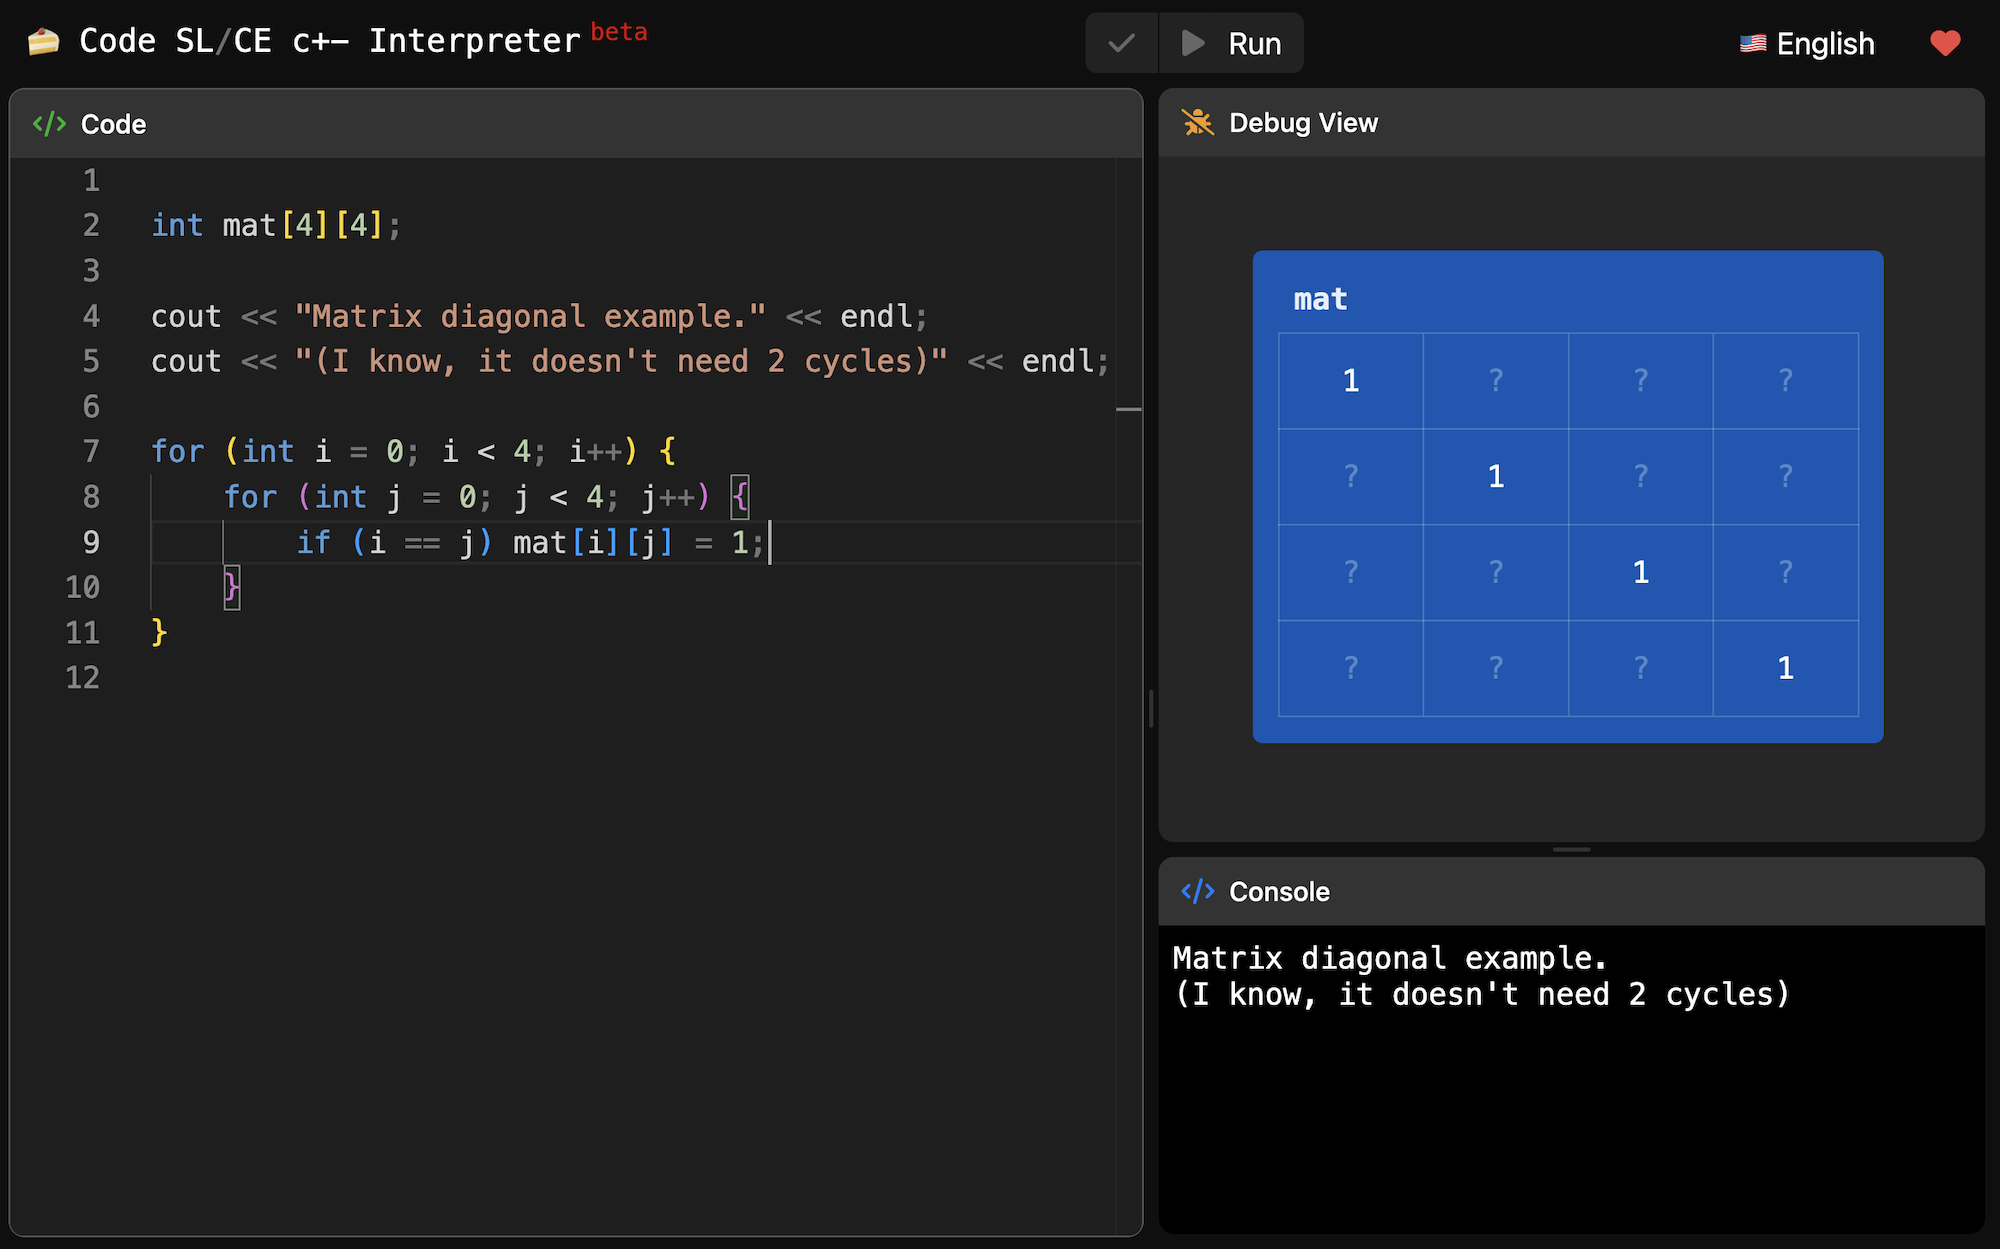
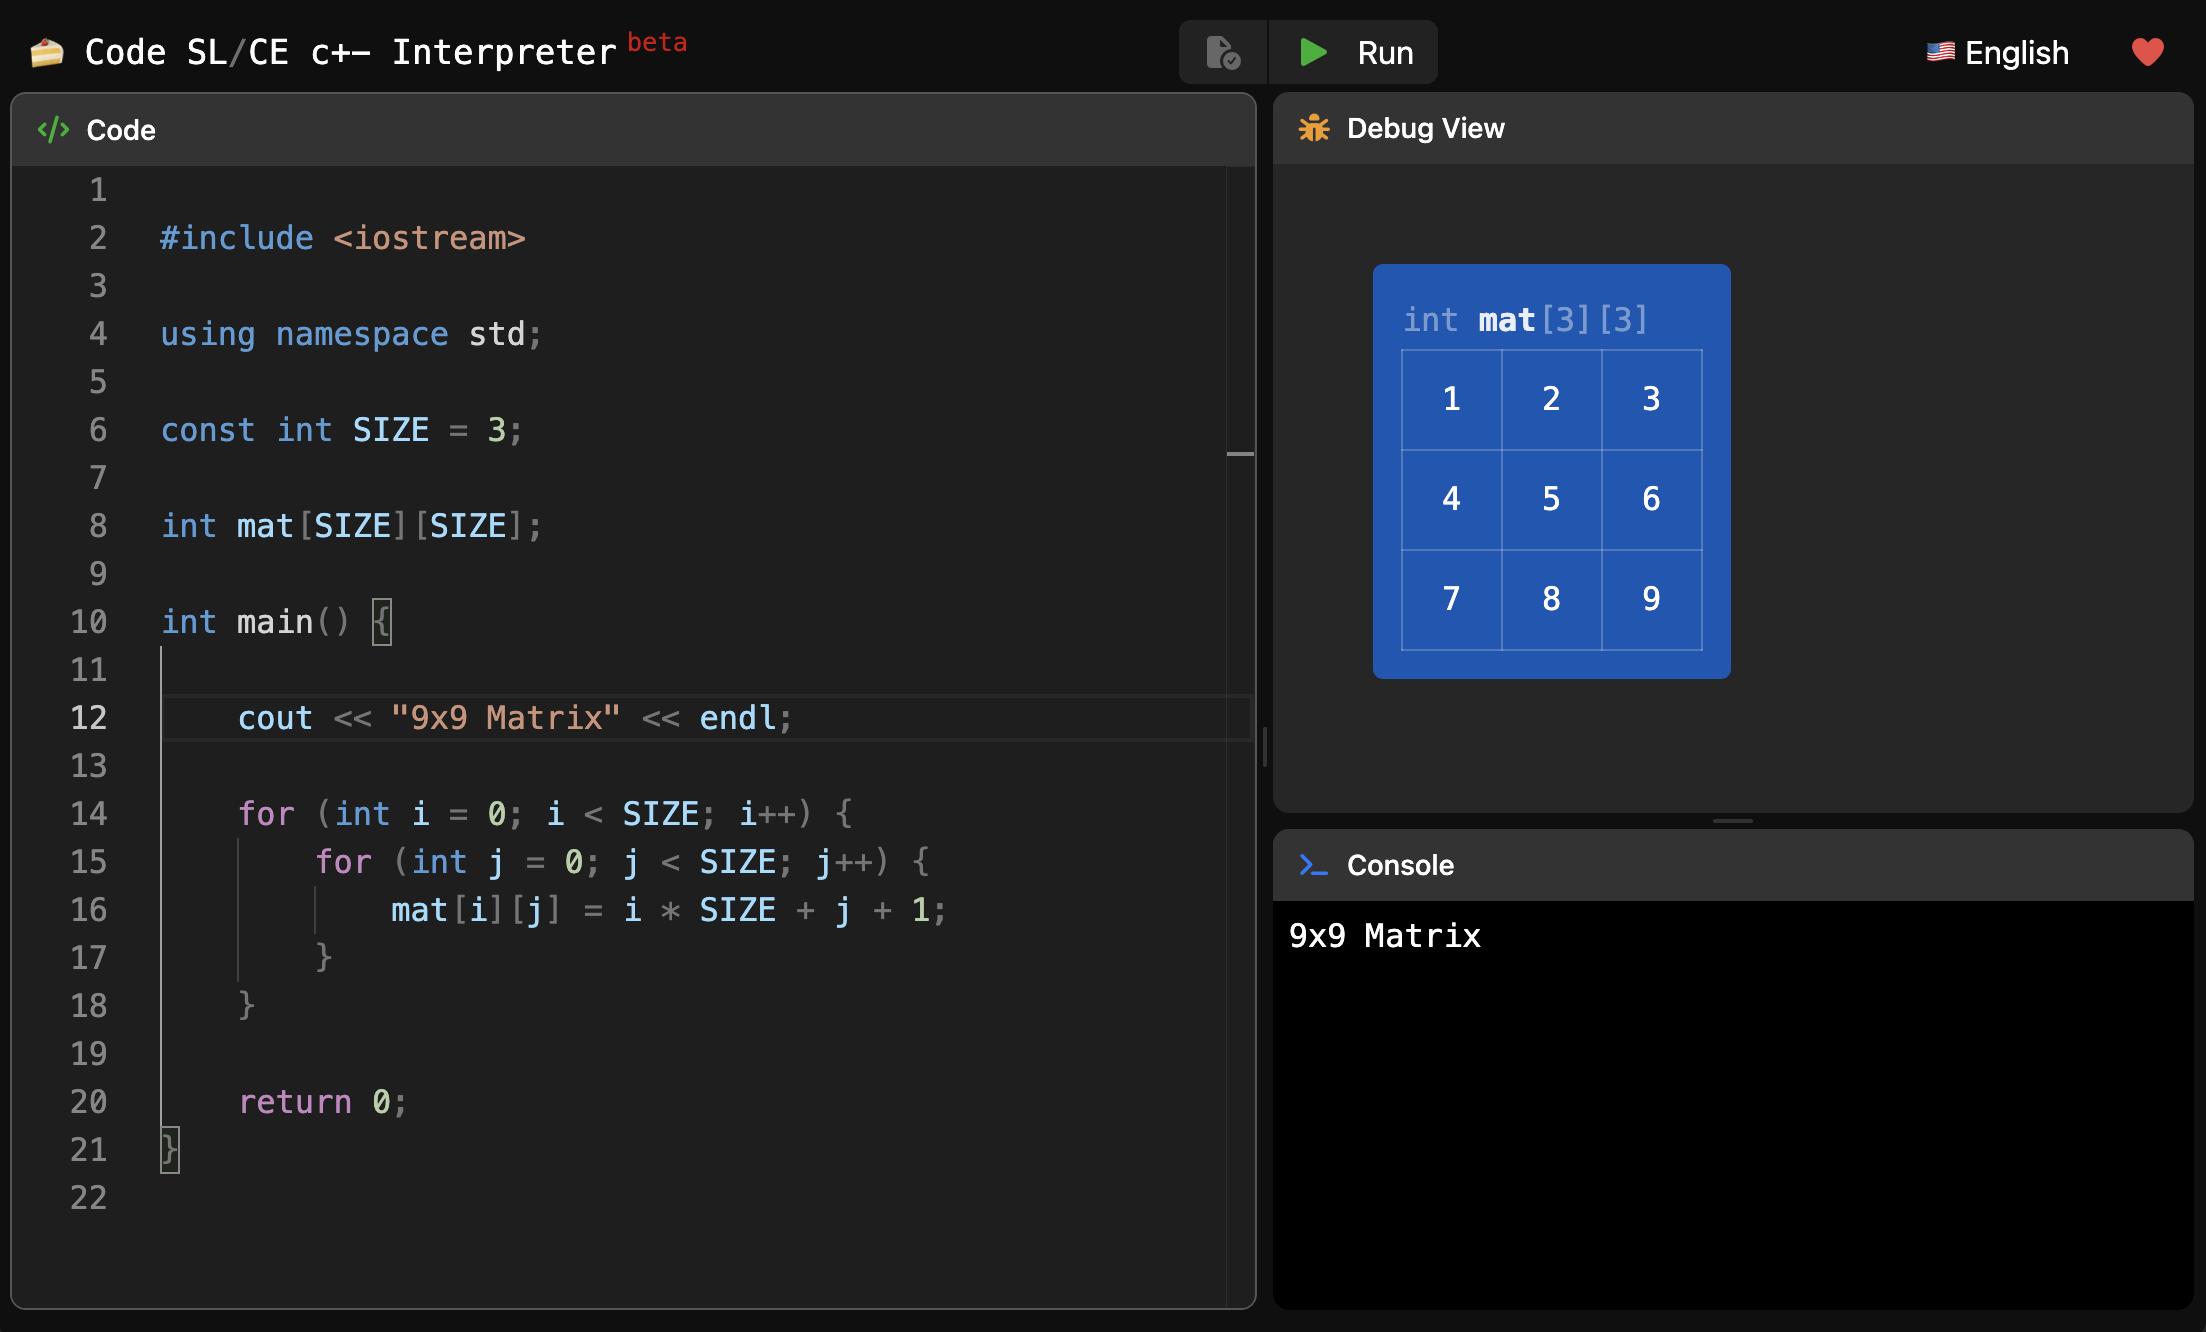
string and char fixes

diff --git a/js/parser.js b/js/parser.js
@@ -4,9 +4,10 @@ const letter = c =>(c >= 'a' && c <= 'z') ||
 	(c >= 'A' && c <= 'Z') || c === '_';
 const alpha = c => digit(c) || letter(c);
 
+// maps the character AFTER the backslash to the character it stands for
 const escapedChars = {
-	'\\\\': "\\", '\\\'': '\'', '\\"': '"',
-	'\\n': "\n", '\\t': "\t", '\\r': "\r", '\\0': "\0"
+	'\\': "\\", '\'': "'", '"': '"',
+	'n': "\n", 't': "\t", 'r': "\r", '0': "\0"
 };
 
 const types = [ "int", "float", "char", "string", "bool" ];
@@ -54,10 +55,10 @@ class Parser {
 
 	// ==== Lexer ==============================================================
 
-	// FIX: comments
 	#lex() {
 		const code = this.code;
-		let tokens = [], grouped = []; let i = 0, t = "", position = 0;
+		let tokens = [], grouped = []; 
+		let i = 0, t = "", position = 0;
 		while (i < code.length) {
 			switch (code[i]) {
 				case ' ': case '\t': case '\n': break;
@@ -88,36 +89,57 @@ class Parser {
 					if (!headers.includes(m[1])) throw new CodeError(Language.main.errors.UHD, [ position, i ], [ m[1] ]);
 					tokens.push({ lexeme: code.substring(position, i), type: "include", header: m[1], position });
 				} break;
-				case '"':
-					position = i; i++; t = '"';
-					while (i < code.length && code[i] !== '"' && code[i] !== '\n')
-						t += code[i++];
-					if (code[i] == '\n') throw new CodeError(Language.main.errors.MTC, [ position, i ], '"');
-					tokens.push({ lexeme: t + '"', type: "string", position });
-				break;
-				case '\'':
-					position = i; i++; t = "";
-					while (i < code.length && code[i] !== '\'' && code[i] !== '\n')
-						t += code[i++];
-					if (code[i] === '\n') throw new CodeError(Language.main.errors.MTC, [ position, i ], "'");
-					if (t.length !== 1) {
-						if (t.includes('\\')) {
-							const c = t.substring(1, t.length - 1);
-							if (!(c in escapedChars)) throw new CodeError(Language.main.errors.UES, [ position, i ]);
-							else tokens.push({ lexeme: `'${escapedChars[c]}'`, type: "char", position });
-						} else throw new CodeError(Language.main.errors.ICL, [ position, i ]);
-					} else tokens.push({ lexeme: `'${t}'`, type: "char", position });
-				break;
+				case '"': {
+					position = i;
+					i++;
+					t = ""; // decoded content
+					while (i < code.length && code[i] !== '"' && code[i] !== '\n') {
+						if (code[i] === '\\') {
+							const c = code[i + 1];
+							if (c === undefined || c === '\n') break; // unterminated
+							if (!Object.hasOwn(escapedChars, c))
+								throw new CodeError(Language.main.errors.UES, [ i, i + 2 ]);
+							t += escapedChars[c];
+							i += 2;
+						} else t += code[i++];
+					}
+					if (code[i] !== '"') throw new CodeError(Language.main.errors.MTC, [ position, i ], '"');
+					// i stays on the closing quote; the loop's final i++ moves past it
+					// lexeme stays the raw source text (positions/lengths), value is the decoded string
+					tokens.push({ lexeme: code.substring(position, i + 1), value: t, type: "string", position });
+				} break;
+				case '\'': {
+					position = i;
+					i++;
+					t = ""; // decoded content
+					while (i < code.length && code[i] !== '\'' && code[i] !== '\n') {
+						if (code[i] === '\\') {
+							const c = code[i + 1];
+							if (c === undefined || c === '\n') break; // unterminated
+							if (!Object.hasOwn(escapedChars, c))
+								throw new CodeError(Language.main.errors.UES, [ i, i + 2 ]);
+							t += escapedChars[c];
+							i += 2;
+						} else t += code[i++];
+					}
+					if (code[i] !== '\'') throw new CodeError(Language.main.errors.MTC, [ position, i ], "'");
+					if (t.length !== 1) throw new CodeError(Language.main.errors.ICL, [ position, i + 1 ]);
+					// i stays on the closing quote; the loop's final i++ moves past it
+					tokens.push({ lexeme: code.substring(position, i + 1), value: t, type: "char", position });
+				} break;
 				default:
 					position = i;
 					if (digit(code[i])) {
 						t = "";
-						while (i < code.length && digit(code[i]) || code[i] === '.')
+						let hasDecimal = false;
+						while (i < code.length && (digit(code[i]) || (code[i] === '.' && !hasDecimal))) {
+							if (code[i] === '.') hasDecimal = true;
 							t += code[i++];
+						}
 						tokens.push({ lexeme: t, type: "number", position });
 					} else if (letter(code[i])) {
 						t = "";
-						while (i < code.length && alpha(code[i])) t += code[i++];
+						while (i < code.length && letter(code[i])) t += code[i++];
 						if (types.includes(t)) tokens.push({ lexeme: t, type: "type", position });
 						else if (keywords.includes(t)) tokens.push({ lexeme: t, type: "keyword", position });
 						else tokens.push({ lexeme: t, type: "identifier", position });
@@ -128,11 +150,12 @@ class Parser {
 			i++;
 		}
 		// group tokens like !=, ==, <=, >=, etc:
-		for (let i = 0; i < tokens.length - 1; i++) {
-			if (tokens[i].type !== "operator") {
+		for (let i = 0; i < tokens.length; i++) {
+			if (tokens[i].type !== "operator" || i === tokens.length - 1) {
 				grouped.push(tokens[i]);
 				continue;
 			}
+			let combined = false;
 			switch (tokens[i].lexeme) {
 				case '=': case '!': case '*': case '/': case '%':
 					if (tokens[i + 1].lexeme === '=') {
@@ -141,7 +164,8 @@ class Parser {
 							type: "operator", position: tokens[i].position
 						});
 						i++;
-					} else grouped.push(tokens[i]);
+						combined = true;
+					}
 				break;
 				case ':':
 					if (tokens[i + 1].lexeme === ':') {
@@ -150,7 +174,8 @@ class Parser {
 							type: "operator", position: tokens[i].position
 						});
 						i++;
-					} else grouped.push(tokens[i]);
+						combined = true;
+					}
 				break;
 				case '&': case '|': case '<': case '>': case '+': case '-':
 					if (tokens[i + 1].lexeme === '=' || tokens[i + 1].lexeme === tokens[i].lexeme) {
@@ -159,12 +184,12 @@ class Parser {
 							type: "operator", position: tokens[i].position
 						});
 						i++;
-					} else grouped.push(tokens[i]);
+						combined = true;
+					}
 				break;
-				default: grouped.push(tokens[i]);
 			}
+			if (!combined) grouped.push(tokens[i]);
 		}
-		if (tokens.length > 0) grouped.push(tokens[tokens.length - 1]);
 		return grouped;
 	}
 

diff --git a/js/main.js b/js/main.js
@@ -98,14 +98,34 @@ Environment.on_define = async (id, data) => {
 			</table></div>`;
 		return;
 	}
+	if (data.isConst) return; // don't show constants in debug view
 	switch (data.type) {
-		case "int": case "float": case "string": case "bool":
+		case "int": case "float": case "bool":
 			document.getElementById("debug").innerHTML += `
 			<div class="variable ${data.type}"><table data-id="${id}">
-				<tr><th><span class="type">${data.isConst ? "const " : ""}${data.base}</span> <b>${id}</b></th></tr>
+				<tr><th><span class="type">${data.base}</span> <b>${id}</b></th></tr>
 				<tr><td>${ data.value === undefined ?
 					'<span class="w-3">?</span>' : data.value
 				}</td></tr>
+			</table></div>`;
+		break;
+		case "char":
+			document.getElementById("debug").innerHTML += `
+			<div class="variable ${data.type}"><table data-id="${id}">
+				<tr><th><span class="type">${data.base}</span> <b>${id}</b></th></tr>
+				<tr><td>'${ data.value === undefined ?
+					'<span class="w-3">?</span>' : escaped(String.fromCharCode(data.value))
+				}'</td></tr>
+				<tr><td>${ data.value || "" }</td></tr>
+			</table></div>`;
+		break;
+		case "string":
+			document.getElementById("debug").innerHTML += `
+			<div class="variable ${data.type}"><table data-id="${id}">
+				<tr><th><span class="type">${data.base}</span> <b>${id}</b></th></tr>
+				<tr><td>"${ data.value === undefined ?
+					'<span class="w-3">?</span>' : escaped(data.value)
+				}"</td></tr>
 			</table></div>`;
 		break;
 	}
@@ -144,4 +164,13 @@ Environment.on_change = async (id, data) => {
 
 function madeWithLove() {
 	vanillaToast.show(Language.main.loveMessage, { duration: 3000, fadeDuration: 500 });
+}
+
+function escaped(s) {
+	return s.replace(/&/g, "&amp;")
+		.replace(/</g, "&lt;")
+		.replace(/>/g, "&gt;")
+		.replace(/\n/g, "\\n")
+		.replace(/\r/g, "\\r")
+		.replace(/\t/g, "\\t");
 }

diff --git a/css/style.css b/css/style.css
@@ -20,12 +20,12 @@ body {
 	height: 100%;
 	width: 100%;
 	overflow: hidden;
-	background-color: rgb(240, 240, 240);
 	font-family: -apple-system, BlinkMacSystemFont, 'Segoe UI', Helvetica,
 				 Arial, sans-serif, 'Apple Color Emoji', 'Segoe UI Emoji';
-
 	display: flex;
 	flex-direction: column;
+	background-color: #0F0F0F;
+	color: #fff;
 }
 
 nav {
@@ -36,6 +36,8 @@ nav {
 	height: 40px;
 	min-height: 40px;
 	flex: 0 0 40px;
+	margin-bottom: 5px;
+	user-select: none;
 }
 
 nav h1 {
@@ -93,8 +95,19 @@ nav .cassette button:last-child {
 	border-bottom-left-radius: 0;
 }
 
+nav button,
+nav select {
+	background-color: #222222;
+	color: #fff;
+}
+
+nav button:hover,
+nav select:hover {
+	background-color: #2F2F2F;
+}
+
 header {
-	background-color: #FAFAFA;
+	background-color: #333333;
 	height: 36px;
 	min-height: 36px;
 	padding: 6px 12px;
@@ -251,7 +264,6 @@ header {
 .variable td {
 	color: #fff;
 	text-align: center;
-	user-select: none;
 }
 
 .variable th b {
@@ -261,10 +273,9 @@ header {
 
 .array td {
 	color: #fff;
-	height: 40px;
-	width: 40px;
+	height: 50px;
+	width: 50px;
 	border: 1px solid rgba(255, 255, 255, 0.2);
-	user-select: none;
 }
 
 .w-1 { color: rgba(255, 255, 255, 0.1); }
@@ -298,24 +309,8 @@ header {
 	color: #757575 !important;
 }
 
-body {
-	background-color: #0F0F0F;
-	color: #fff;
-}
-
-nav button,
-nav select {
-	background-color: #222222;
-	color: #fff;
-}
-
-nav button:hover,
-nav select:hover {
-	background-color: #2F2F2F;
-}
-
-header {
-	background-color: #333333;
+.margin-view-overlays {
+	user-select: none !important;
 }
 
 #splitgrid > section {

diff --git a/js/tree.js b/js/tree.js
@@ -303,12 +303,13 @@ class Literal extends Expression {
 	constructor(token, type) {
 		super(token.position, token.position + token.lexeme.length);
 		this.value = token.lexeme;
+		this.decoded = token.value; // escape-decoded content (char/string tokens only)
 		this.type = type;
 	}
 	async execute() {
 		switch (this.type) {
-			case   "char": return new Value(this.value.charCodeAt(1), "char");
-			case "string": return new Value(this.value.slice(1, -1), "string");
+			case   "char": return new Value(this.decoded.charCodeAt(0), "char");
+			case "string": return new Value(this.decoded, "string");
 			case  "float": return new Value(parseFloat(this.value), "float");
 			case    "int": return new Value(parseInt(this.value), "int");
 			default: throw new CodeError(Language.main.errors.LIT, [ this.start, this.end ], [ this.value ]);

diff --git a/js/monaco.js b/js/monaco.js
@@ -86,8 +86,8 @@ require([ "vs/editor/editor.main" ], function() {
 				{ include: '@whitespace' },
 				[/\d+\.\d+/, "number.float"],
 				[/\d+/, "number"],
-				[/'[^\\']'/, "string.char"],
-				[/"[^\\"]*"/, "string"],
+				[/'(?:[^'\\]|\\.)*'/, "string.char"], 
+				[/"(?:[^"\\]|\\.)*"/, "string"],
 				[/[{}()\[\]]/, '@brackets'],
 				[/<<|>>/, "delimiter.angle"],
 				[/[<>]=?/, "delimiter"],

diff --git a/index.html b/index.html
@@ -77,7 +77,7 @@
 		</section>
 		<section id="view-box">
 			<header>
-				<div><i class="fa-solid fa-bug-slash orange"></i> <span style="margin: 0 4px">Debug View</span></div>
+				<div><i class="fa-solid fa-bug orange"></i> <span style="margin: 0 4px">Debug View</span></div>
 			</header>
 			<div id="debug"></div>
 		</section>
